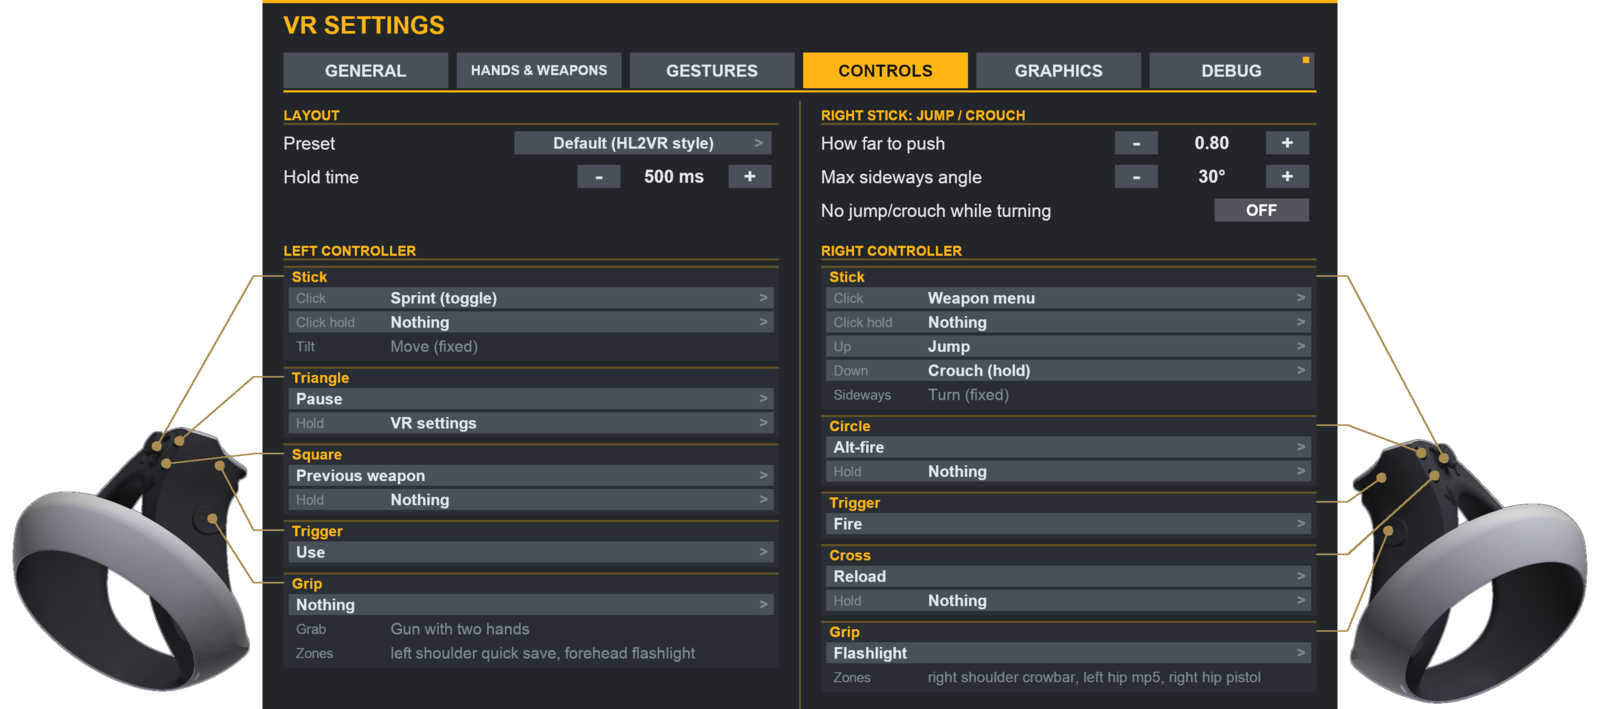
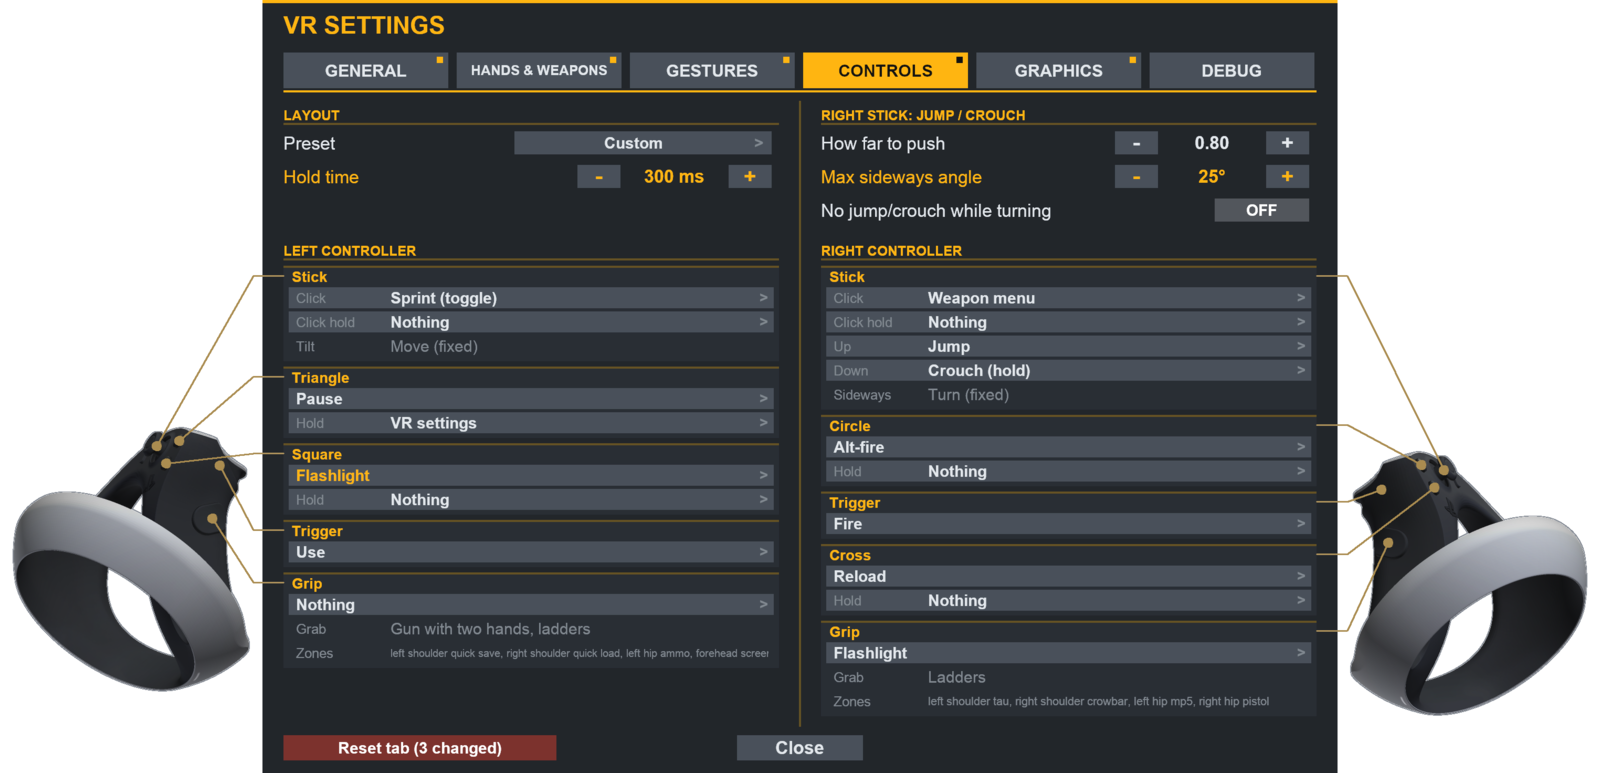
README: panel screenshots from a real setup, three more tabs
Gestures and Controls were taken with the shipped default config; they
are now taken with the maintainer's own settings (changed rows amber),
and General, Hands & Weapons and Graphics get a screenshot too. Tab
descriptions follow the current panel (grenades are a developer section).
Headless dumps (BMVR_TEST_PANEL_DUMP, live config, MulticoreMode on,
1920x1080, fake eye tracking for the Graphics tab).

Claude-Session: https://claude.ai/code/session_01EWjtmYdUkpQ87XE1fkELoX

diff --git a/README.md b/README.md
@@ -64,9 +64,15 @@ A macOS version lives here: https://github.com/armax9/black-mesa-vr-macos
 
 ### The VR settings panel
 **Hold Triangle/Y** (about half a second) or pick the gear in the weapon wheel. Six tabs:
-- **General:** turning, movement, ladders, view, menus.
-- **Hands & Weapons:** hand HUD and its position, aim marker and laser, flashlight, grenades,
-  ammo feedback, crossbow scope, mounted guns, physical weapons.
+- **General:** turning, ladders, view, menus.
+
+  <img src="docs/images/panel-general.jpg" alt="VR settings: General tab" width="90%">
+
+- **Hands & Weapons:** hand HUD and its position, flashlight, aim marker and laser,
+  ammo feedback, weapon auto-switch, pistols, physical weapons.
+
+  <img src="docs/images/panel-hands.jpg" alt="VR settings: Hands & Weapons tab" width="90%">
+
 - **Gestures:** what each hand does in each grab zone, on a picture of the HEV suit. A zone lights up while your hand
   is in it.
 
@@ -77,10 +83,13 @@ A macOS version lives here: https://github.com/armax9/black-mesa-vr-macos
 
   <img src="docs/images/panel-controls.png" alt="VR settings: Controls tab with PS VR2 Sense controller pictures" width="90%">
 
-- **Graphics:** foveated rendering, frame cap, MSAA, FXAA, bloom, lens flares, light glows, reflections.
+- **Graphics:** foveated rendering, frame cap, MSAA, FXAA, reflections, bloom.
+
+  <img src="docs/images/panel-graphics.jpg" alt="VR settings: Graphics tab" width="90%">
+
 - **Debug:** diagnostics, logs and debug captures for bug reports.
 
-Most changes apply right away. The panel only saves the settings you changed into `VR\config.txt`, so improved
+Most changes apply right away. Settings you changed show in amber (the screenshots show a player's own setup). The panel only saves those into `VR\config.txt`, so improved
 defaults reach you with each update.
 
 ## Install
